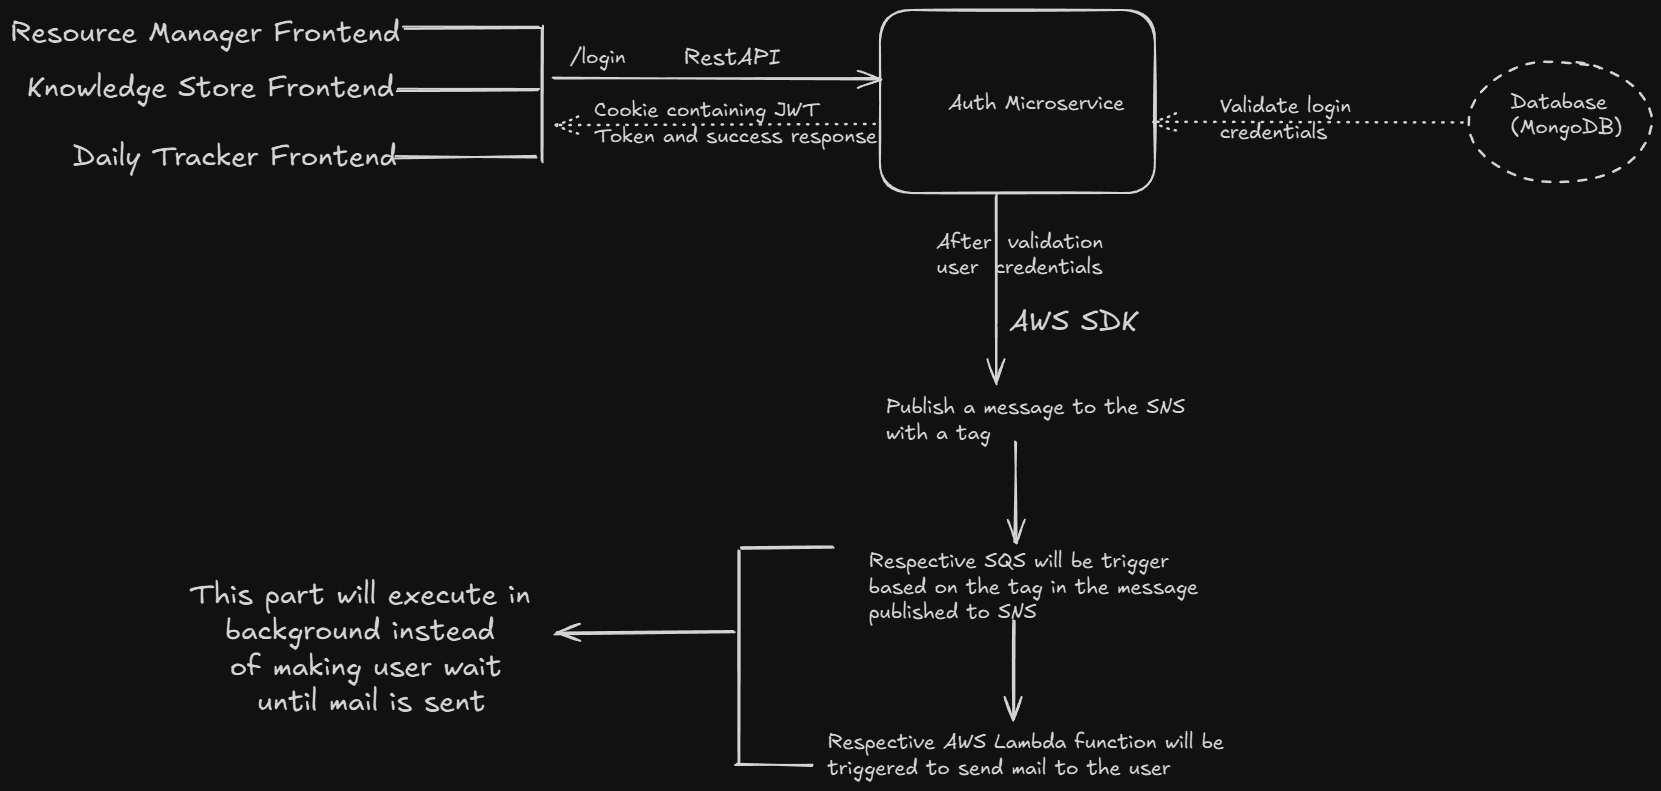
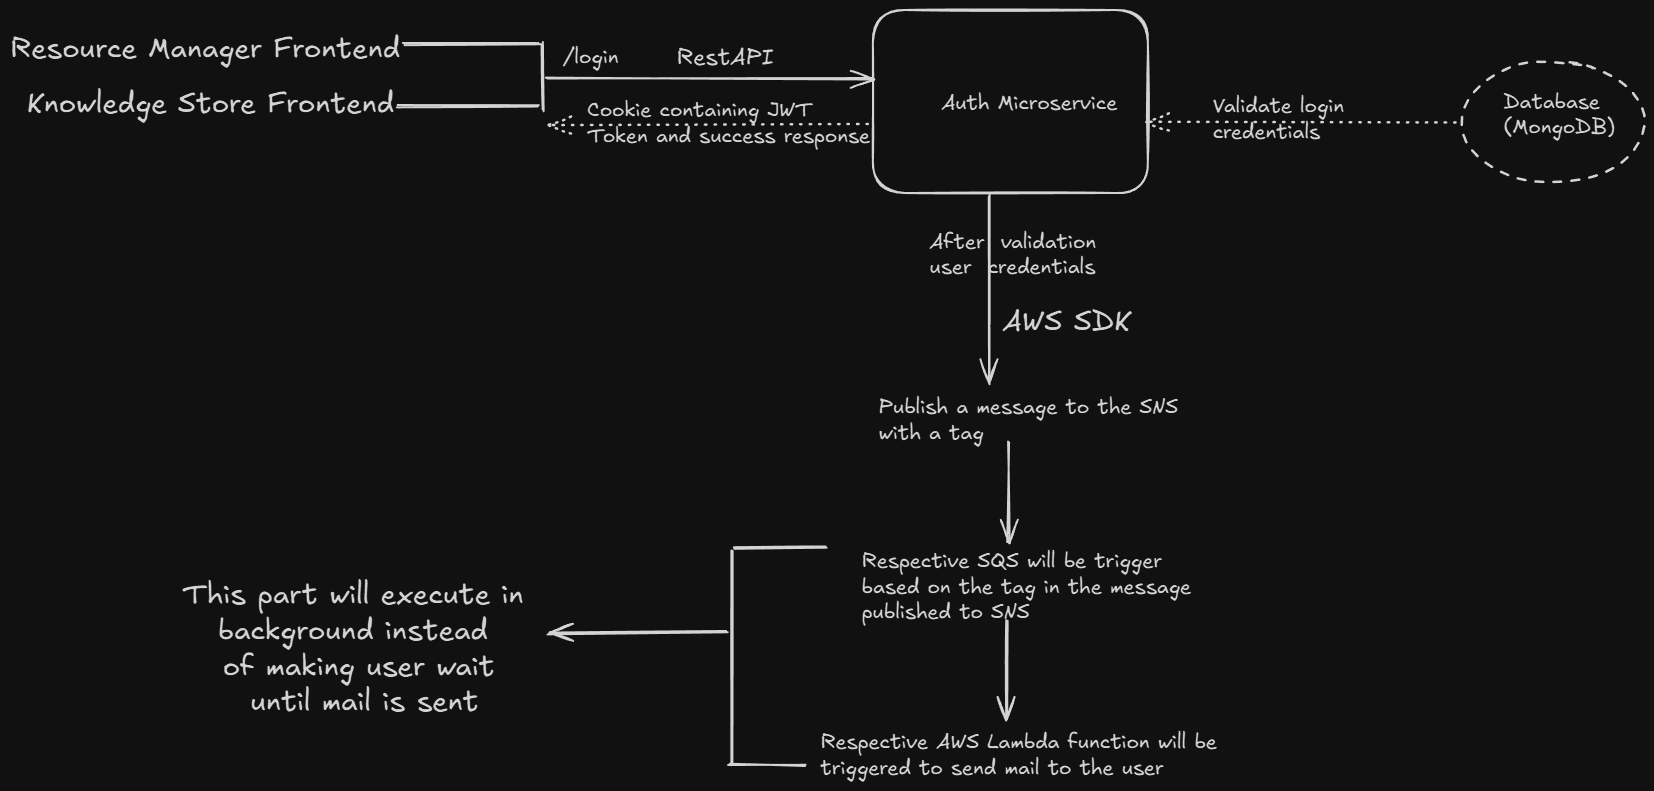
docs: update planned improvemet, architecture diagram

diff --git a/index.html b/index.html
@@ -1,6 +1,5 @@
 <!DOCTYPE html>
 <html lang="en">
-
 <head>
     <meta charset="UTF-8">
     <meta name="viewport" content="width=device-width, initial-scale=1.0">
@@ -97,9 +96,14 @@
         }
 
         .feature-card h3 {
-            color: #2c5282;
+            color: blue;
             margin-top: 0;
             font-size: 1.1em;
+        }
+
+        .feature-card h3 a {
+            text-decoration: none;
+            color: blue;
         }
 
         .tech-stack {
@@ -171,6 +175,20 @@
             margin: 15px 0;
         }
 
+        .security-badge {
+            background: #d4edda;
+            padding: 15px;
+            border-radius: 5px;
+            border-left: 4px solid #28a745;
+            margin: 20px 0;
+        }
+
+        .security-badge a {
+            color: #155724;
+            font-weight: bold;
+            text-decoration: underline;
+        }
+
         .limitation-box {
             background: #fff5f5;
             padding: 15px;
@@ -185,6 +203,14 @@
             border-radius: 5px;
             border-left: 4px solid #3b82f6;
             margin: 15px 0;
+        }
+
+        .roadmap-box p {
+            margin: 10px 0;
+        }
+
+        .roadmap-box ul {
+            margin: 5px 0 15px 0;
         }
 
         ul,
@@ -284,14 +310,6 @@
             border-radius: 8px;
             text-align: center;
         }
-
-        .feature-card h3 {
-            color: blue;
-        }
-
-        .feature-card h3 a {
-            text-decoration: none;
-        }
     </style>
 </head>
 
@@ -312,41 +330,14 @@
             <p><strong>Developer:</strong> Lakshay Mahajan | <strong>Version:</strong> 1.0.0</p>
         </div>
 
+        <div class="security-badge">
+            <strong>⚡ Security Status:</strong> 33% improvement (50/100 → 83/100). 
+            <!-- See <a href="https://github.com/lakshay2425/Auth-Service/blob/main/SECURITY.md" target="_blank">SECURITY.md</a> for full vulnerability disclosure. -->
+        </div>
+
         <div class="section-title">🏗 System Architecture Overview</div>
 
         <div class="architecture-diagram">
-            <!-- <div class="diagram-text">┌─────────────────────────┐                      ┌─────────────────────────┐
-│   Resource Manager      │                      │   Knowledge Store       │
-│      Frontend           │                      │      Frontend           │
-└────────┬────────────────┘                      └────────┬────────────────┘
-         │                                                │
-         └─────────────────┐                              │
-                           │                              │
-                           ▼                              ▼
-         ┌─────────────────────────────────────────────────────────────────────────┐
-         │                    🔐 Authentication Microservice                        │
-         │                            (Express.js)                                 │
-         │  ┌─────────────┐  ┌─────────────┐  ┌─────────────┐  ┌─────────────┐    │
-         │  │   JWT       │  │   OAuth     │  │    Rate     │  │   Winston   │    │
-         │  │  Tokens     │  │ Google 2.0  │  │  Limiting   │  │  Logging    │    │
-         │  └─────────────┘  └─────────────┘  └─────────────┘  └─────────────┘    │
-         └──────────────────────┬──────────────────────────────────────────────────┘
-                                │
-                                ▼
-         ┌─────────────────────────────────────────────────────────────────────────┐
-         │                        💾 MongoDB Database                              │
-         │                      (User Data & Sessions)                             │
-         └──────────────────────┬──────────────────────────────────────────────────┘
-                                │
-                                ▼
-         ┌─────────────────────────────────────────────────────────────────────────┐
-         │                     📧 Event-Driven Email System                        │
-         │                                                                         │
-         │    AWS SNS Topic    →    AWS SQS Queue    →    AWS Lambda Function     │
-         │   (User Events)         (Message Filter)       (Email Processing)      │
-         │                                                                         │
-         │    📨 Background Email Delivery (Login/Signup Notifications)           │
-         └─────────────────────────────────────────────────────────────────────────┘</div> -->
             <img width="100%" src="./Auth Service - System Architecture.png" alt="Auth Architecture Diagram">
         </div>
 
@@ -400,7 +391,6 @@
             <div class="tech-item">AWS SNS/SQS</div>
             <div class="tech-item">AWS Lambda</div>
             <div class="tech-item">Docker</div>
-            <div class="tech-item">Winston Logger</div>
             <div class="tech-item">Google OAuth 2.0</div>
             <div class="tech-item">GitHub Actions</div>
         </div>
@@ -438,7 +428,6 @@
         <ul>
             <li><strong>Traditional:</strong> Email/password with bcrypt hashing (12 salt rounds)</li>
             <li><strong>OAuth:</strong> Google OAuth 2.0 integration</li>
-            <li><strong>Personal OAuth:</strong> Restricted access for specific users</li>
         </ul>
 
         <p><strong>Security Implementation:</strong></p>
@@ -492,8 +481,8 @@
 
             <div class="feature-card">
                 <h3>🎫 JWT Token Management</h3>
-                <p><strong>RS256 Encryption:</strong> Asymmetric key signing for enhanced security with configurable
-                    expiration times.</p>
+                <p><strong>RS256 Encryption:</strong> Asymmetric key signing for enhanced security with 12-hour
+                    expiration time.</p>
             </div>
 
             <div class="feature-card">
@@ -516,7 +505,7 @@
             <li><strong>Event Publication:</strong> Auth service publishes user events to AWS SNS topic</li>
             <li><strong>Message Filtering:</strong> SQS queues receive filtered messages based on event type</li>
             <li><strong>Lambda Processing:</strong> AWS Lambda functions triggered by SQS messages</li>
-            <li><strong>Email Delivery:</strong> Lambda functions handle email sending.</li>
+            <li><strong>Email Delivery:</strong> Lambda functions handle email sending</li>
         </ol>
 
         <div class="section-title">🏗 Code Organization & Best Practices</div>
@@ -539,7 +528,7 @@
 
             <div class="feature-card">
                 <h3>Token Security</h3>
-                <p>RSA-256 asymmetric encryption, proper key management, and configurable expiration times.</p>
+                <p>RSA-256 asymmetric encryption, proper key management, and 12-hour token expiration.</p>
             </div>
 
             <div class="feature-card">
@@ -572,16 +561,27 @@
         <div class="section-title">🗺 Roadmap & Future Enhancements</div>
 
         <div class="roadmap-box">
-            <p><strong>Planned Improvements:</strong></p>
+            <p><strong>⚡ Active Development - Prioritized by Impact & Timeline:</strong></p>
+            
+            <p><strong>High Priority (January 2025):</strong></p>
             <ul>
-                <li><strong>Testing Infrastructure:</strong> Comprehensive unit, integration, and end-to-end test suites
-                    with automated test coverage reporting</li>
-                <li><strong>Observability & Error Handling:</strong> Enhanced logging with request tracing, centralized
-                    error monitoring, and real-time alerting for critical failures</li>
-                <li><strong>Async Reliability:</strong> Dead Letter Queue monitoring, automatic retry mechanisms, and
-                    circuit breakers for email processing pipeline</li>
-                <li><strong>Token Lifecycle Management:</strong> Refresh token implementation, token rotation strategy,
-                    and graceful token renewal mechanisms</li>
+                <li><strong>TypeScript Migration:</strong> Full type safety across codebase, strict TypeScript configuration with ESNext features, enhanced IDE support and maintainability</li>
+                <li><strong>Integration Testing:</strong> Jest + Supertest framework, comprehensive test coverage for authentication flows, automated testing in CI/CD pipeline</li>
+                <li><strong>Active Winston Logging:</strong> Replace console.log with structured JSON logging throughout application, context-aware logging with request IDs, environment-specific log levels</li>
+            </ul>
+
+            <p><strong>Medium Priority (February 2025):</strong></p>
+            <ul>
+                <li><strong>API Documentation:</strong> Swagger/OpenAPI specification, interactive API explorer at /api-docs, request/response examples with authentication flows</li>
+                <li><strong>Redis Caching:</strong> Connection pooling configuration, session storage optimization, cache invalidation strategies for improved performance</li>
+                <li><strong>Enhanced Error Handling:</strong> Dead Letter Queue (DLQ) configuration for failed messages, retry logic with exponential backoff, CloudWatch alarm integration, email delivery status tracking</li>
+            </ul>
+
+            <p><strong>Future Enhancements:</strong></p>
+            <ul>
+                <li><strong>Enhanced CI/CD Pipeline:</strong> Automated Docker image building and publishing to Docker Hub, comprehensive test execution with coverage reports, environment-specific testing with .env.testing</li>
+                <li><strong>Token Lifecycle Management:</strong> Refresh token implementation (1-hour access token + 7-day refresh token), token rotation strategy for enhanced security</li>
+                <li><strong>Two-Factor Authentication:</strong> TOTP-based 2FA with QR code generation for optional enhanced security</li>
             </ul>
         </div>
 
@@ -696,15 +696,16 @@
         <div class="feature-grid">
             <div class="feature-card">
                 <h3><a href="https://resources.lakshaymahajan.com" target="_blank">🗂 Resource Manager</a></h3>
-                <p><strong>Purpose:</strong> Internal resource link management system</p>
-                <p><strong>Features:</strong> CRUD operations, categorization, search functionality</p>
-                <p><strong>Users:</strong> Personal productivity</p>
+                <p><strong>Purpose:</strong> Developer resource management system</p>
+                <p><strong>Features:</strong> Multi-link bookmarks, document uploads, tag-based search, organized collections</p>
+                <p><strong>Authentication:</strong> Email/password and Google OAuth integration</p>
             </div>
 
             <div class="feature-card">
                 <h3><a href="https://knowledgestore.lakshaymahajan.com" target="_blank">📚 Knowledge Store</a></h3>
                 <p><strong>Purpose:</strong> Book rental and management platform</p>
-                <p><strong>Features:</strong> Catalog browsing, cart management, wishlist, user profiles</p>
+                <p><strong>Features:</strong> Catalog browsing, cart management, wishlist functionality, user profiles</p>
+                <p><strong>Authentication:</strong> Seamless single sign-on across platform</p>
             </div>
         </div>
 
@@ -713,8 +714,8 @@
         <p><strong>Current Infrastructure:</strong></p>
         <ul>
             <li><strong>Hosting:</strong> VPS deployment with Docker containerization</li>
-            <li><strong>Database:</strong> MongoDB Atlas for reliability and backup</li>
-            <li><strong>Email Processing:</strong> AWS (SNS,SQS,Lambda) for scalable messaging</li>
+            <li><strong>Database:</strong> MongoDB Atlas for reliability and automatic backups</li>
+            <li><strong>Email Processing:</strong> AWS (SNS, SQS, Lambda) for scalable asynchronous messaging</li>
             <li><strong>SSL/TLS:</strong> Let's Encrypt certificates with automatic renewal</li>
         </ul>
 
